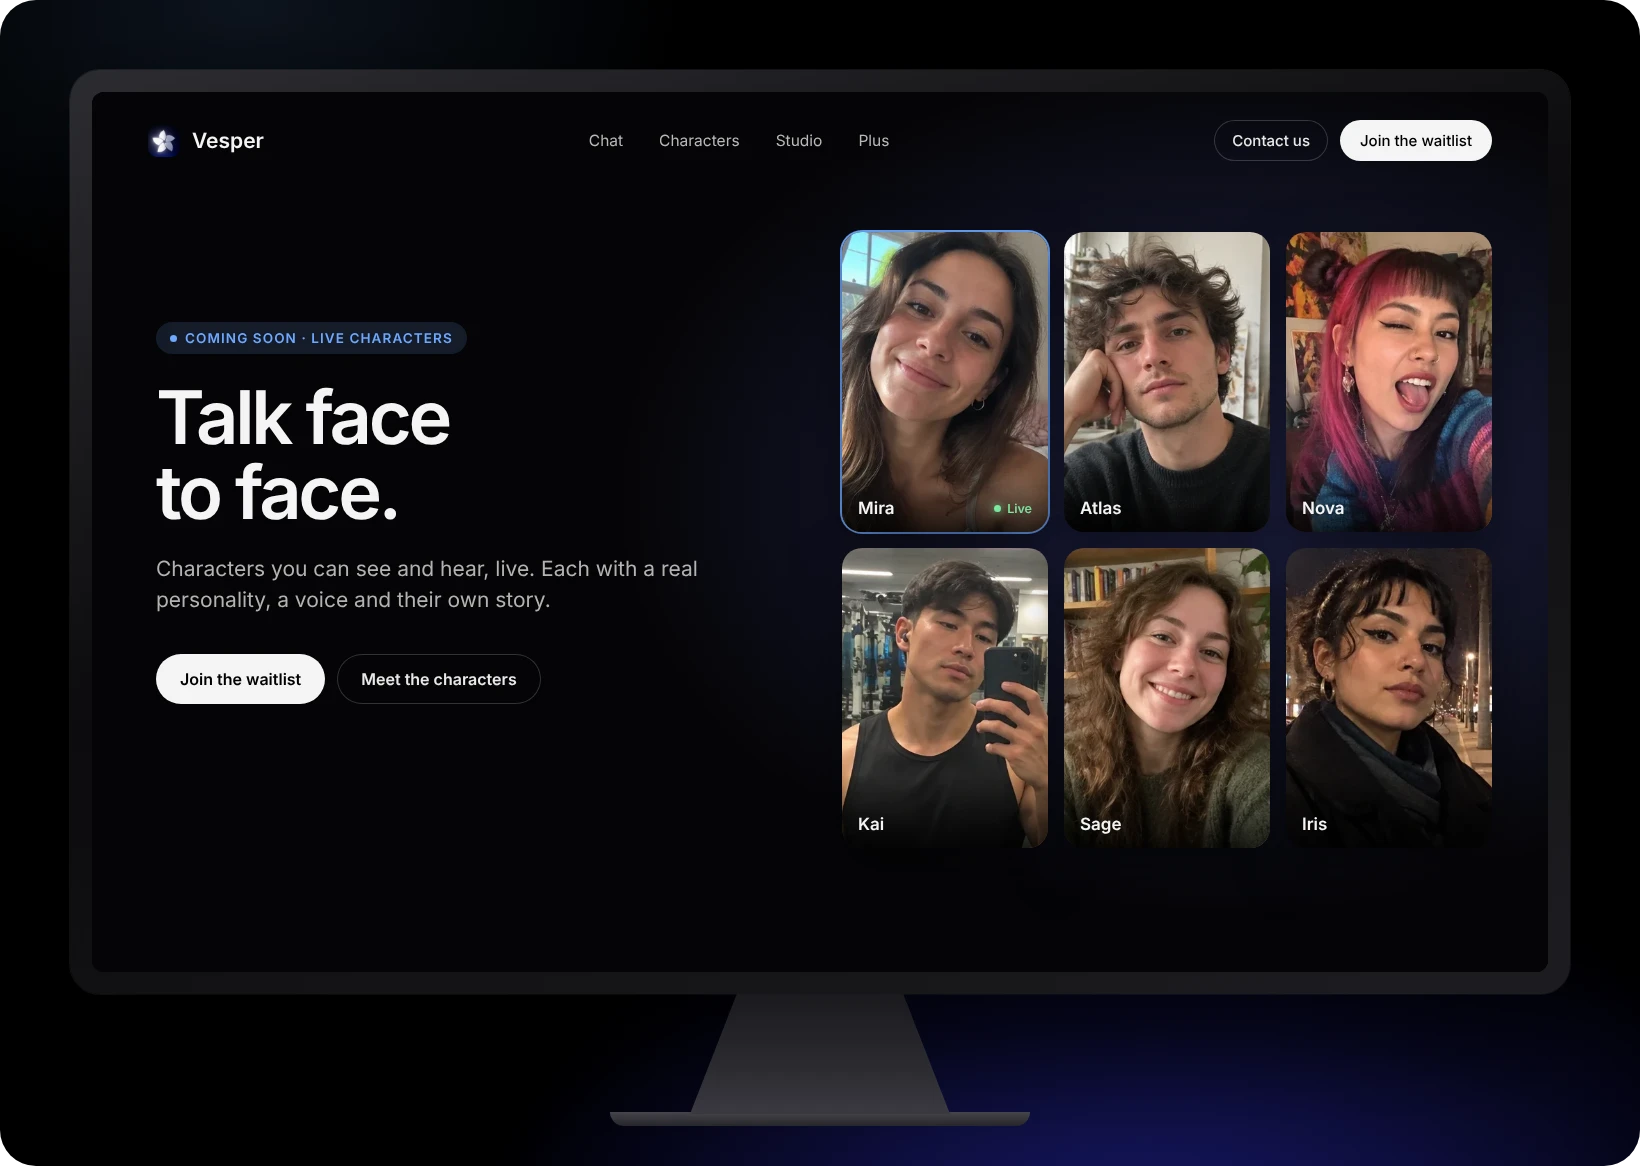
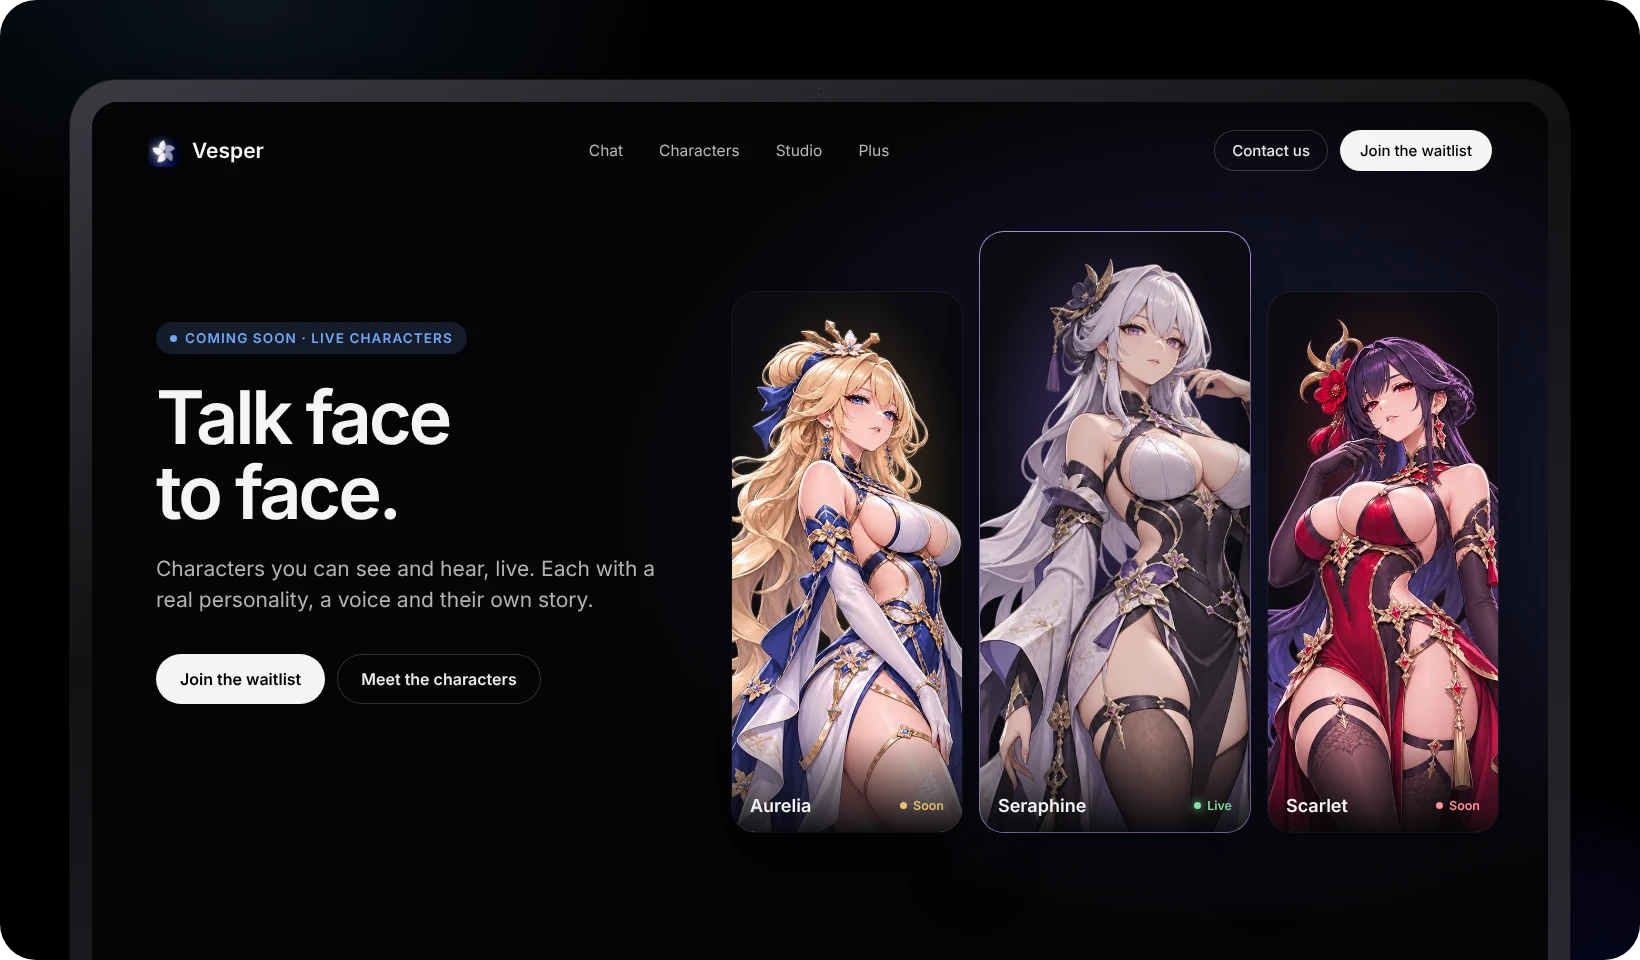
README art: tablets cropped at the bottom, anime trio for Live Characters, waitlist confetti
Claude-Session: https://claude.ai/code/session_01Pqes7qMJVCgUAH6HtcUGzX

diff --git a/docs/art/make-art.js b/docs/art/make-art.js
@@ -252,13 +252,10 @@ async function compose(browser, base) {
     </div></div>`, 1900), 1900);
 
   // Coming soon landing pages, each on an Apple style display
-  const mac = inner => `<div style="position:relative;padding:70px 0 40px;overflow:hidden"><div class="glow"></div>
-    <div style="position:relative;width:1500px;margin:0 auto">
-      <div style="padding:22px;border-radius:30px;background:linear-gradient(160deg,#2c2c31,#0b0b0d 45%,#1d1d21);box-shadow:0 50px 120px rgba(0,0,0,.7),0 0 0 1px rgba(255,255,255,.09)">
-        <div style="position:relative;width:1456px;height:880px;border-radius:12px;overflow:hidden;background:#000">${inner}</div></div>
-      <div style="width:260px;height:120px;margin:0 auto;background:linear-gradient(180deg,#1a1a1e,#2b2b30 60%,#3a3a40);clip-path:polygon(18% 0,82% 0,100% 100%,0 100%)"></div>
-      <div style="width:420px;height:14px;margin:-2px auto 0;border-radius:0 0 14px 14px;background:linear-gradient(180deg,#45454b,#26262a)"></div>
-    </div></div>`;
+  const mac = inner => `<div style="position:relative;height:960px;padding-top:80px;overflow:hidden"><div class="glow"></div>
+    <div style="position:relative;width:1500px;margin:0 auto;padding:22px;border-radius:46px;background:linear-gradient(160deg,#3a3a40,#111114 40%,#2a2a30);box-shadow:0 40px 100px rgba(0,0,0,.7),0 0 0 1px rgba(255,255,255,.08)">
+      <i style="position:absolute;top:8px;left:50%;width:7px;height:7px;margin-left:-3px;border-radius:50%;background:#1d1d22;box-shadow:inset 0 0 0 1.5px #2e2e35"></i>
+      <div style="position:relative;width:1456px;height:880px;border-radius:26px;overflow:hidden;background:#000">${inner}</div></div></div>`;
   const chk = '<svg width="18" height="18" viewBox="0 0 24 24" fill="none" stroke="#6ea8ff" stroke-width="2.4" stroke-linecap="round" stroke-linejoin="round"><path d="M20 6 9 17l-5-5"/></svg>';
   const nav = `<div style="position:absolute;left:0;right:0;top:0;z-index:3;display:flex;align-items:center;justify-content:space-between;padding:28px 56px">
       <div style="display:flex;align-items:center;gap:12px;font-size:21px;font-weight:600"><img src="/icons/chrome/icon-192.png" style="width:32px;height:32px;border-radius:9px">Vesper</div>
@@ -280,21 +277,28 @@ async function compose(browser, base) {
   await render("studio-video.webp", artPage(studio("/docs/art/studio/video.webp", "Coming soon · Video Studio", "Direct videos<br>with words.",
     "Ads, reels and stories with real camera moves. Describe the shot and get the clip, ready to post.",
     "Slow push in on a woman in the rain, neon street, night", ["10 sec", "9:16", "Handheld", "Sound on"]), 1640), 1640);
-  const people = [["mira", "Mira"], ["atlas", "Atlas"], ["nova", "Nova"], ["kai", "Kai"], ["sage", "Sage"], ["iris", "Iris"]];
-  await render("studio-live.webp", artPage(mac(`<div style="position:absolute;inset:0;background:radial-gradient(60% 70% at 78% 45%,rgba(110,120,255,.28),transparent 70%),#050507"></div>${nav}
-      <div style="position:absolute;left:64px;top:230px;z-index:2;width:560px">${chip("Coming soon · Live Characters")}${h1("Talk face<br>to face.")}${sub("Characters you can see and hear, live. Each with a real personality, a voice and their own story.")}
+  const trio = [["aurelia", "Aurelia", "#f0c26b", "rgba(255,190,90,.30)"], ["seraphine", "Seraphine", "#b89cff", "rgba(150,110,255,.40)"], ["scarlet", "Scarlet", "#ff8f8f", "rgba(255,80,110,.32)"]];
+  await render("studio-live.webp", artPage(mac(`<div style="position:absolute;inset:0;background:radial-gradient(60% 70% at 78% 45%,rgba(110,120,255,.26),transparent 70%),#050507"></div>${nav}
+      <div style="position:absolute;left:64px;top:220px;z-index:2;width:540px">${chip("Coming soon · Live Characters")}${h1("Talk face<br>to face.")}${sub("Characters you can see and hear, live. Each with a real personality, a voice and their own story.")}
         <div style="display:flex;gap:12px;margin-top:38px;font-size:16px;font-weight:600"><span style="padding:15px 24px;border-radius:999px;background:#f5f5f4;color:#000">Join the waitlist</span><span style="padding:15px 24px;border-radius:999px;color:#e9e9e7;box-shadow:inset 0 0 0 1px rgba(255,255,255,.18)">Meet the characters</span></div></div>
-      <div style="position:absolute;right:56px;top:140px;display:grid;grid-template-columns:repeat(3,206px);gap:16px">
-      ${people.map(([id, n], i) => `<div style="position:relative;border-radius:20px;overflow:hidden;height:300px;box-shadow:0 20px 50px rgba(0,0,0,.5)${i === 0 ? ",0 0 0 2px #6ea8ff" : ""}"><img src="/chars/${id}.webp" style="width:100%;height:100%;object-fit:cover">
-        <div style="position:absolute;inset:auto 0 0 0;padding:40px 16px 14px;background:linear-gradient(transparent,rgba(0,0,0,.8));display:flex;align-items:center;gap:8px;font-size:17px;font-weight:600">${n}
-        ${i === 0 ? '<span style="margin-left:auto;display:inline-flex;align-items:center;gap:6px;font-size:12.5px;color:#7ee8a0"><i style="width:7px;height:7px;border-radius:50%;background:#7ee8a0;box-shadow:0 0 10px #7ee8a0"></i>Live</span>' : ""}</div></div>`).join("")}
+      <div style="position:absolute;right:50px;top:130px;display:flex;align-items:flex-end;gap:18px">
+      ${trio.map(([id, n, col, glow], i) => `<div style="position:relative;width:${i === 1 ? 270 : 230}px;height:${i === 1 ? 600 : 540}px;border-radius:24px;overflow:hidden;background:radial-gradient(70% 50% at 50% 35%,${glow},transparent 75%),#0b0b10;box-shadow:0 30px 70px rgba(0,0,0,.6),0 0 0 1px ${i === 1 ? col : "rgba(255,255,255,.08)"}">
+        <img src="/docs/art/characters/${id}-full.webp" style="position:absolute;left:50%;top:26px;height:${i === 1 ? 980 : 880}px;transform:translateX(-50%)">
+        <div style="position:absolute;inset:auto 0 0 0;padding:60px 18px 16px;background:linear-gradient(transparent,rgba(5,5,8,.92));display:flex;align-items:center;gap:8px;font-size:18px;font-weight:600">${n}
+        <span style="margin-left:auto;display:inline-flex;align-items:center;gap:6px;font-size:12.5px;color:${i === 1 ? "#7ee8a0" : col}"><i style="width:7px;height:7px;border-radius:50%;background:${i === 1 ? "#7ee8a0" : col};${i === 1 ? "box-shadow:0 0 10px #7ee8a0" : ""}"></i>${i === 1 ? "Live" : "Soon"}</span></div></div>`).join("")}
       </div>`), 1640), 1640);
+  // a frozen confetti burst: seeded so every render matches
+  const confetti = (x0, y0) => { let r = 7; const rnd = () => (r = (r * 16807) % 2147483647) / 2147483647;
+    const cols = ["#6ea8ff", "#f0c26b", "#ffffff", "#b89cff", "#7ee8a0", "#ffd9a0"];
+    return Array.from({ length: 90 }, () => { const a = Math.PI * 2 * rnd(), d = 200 + rnd() * 520, x = x0 + Math.cos(a) * d * 1.35, y = y0 + Math.sin(a) * d * .9 + rnd() * 40;
+      const w = 5 + rnd() * 6, h = rnd() < .3 ? w : 10 + rnd() * 10, o = Math.max(.45, 1.1 - d / 800);
+      return `<i style="position:absolute;left:${x.toFixed(0)}px;top:${y.toFixed(0)}px;width:${w.toFixed(1)}px;height:${h.toFixed(1)}px;border-radius:${h === w ? "50%" : "2px"};background:${cols[Math.floor(rnd() * cols.length)]};opacity:${o.toFixed(2)};transform:rotate(${(rnd() * 360).toFixed(0)}deg);box-shadow:0 0 8px rgba(255,255,255,.15)"></i>`; }).join(""); };
   const list = items => items.map(t => `<div style="display:flex;align-items:center;gap:12px;font-size:16.5px;color:#dcdcd9;padding:7px 0">${chk}${t}</div>`).join("");
   await render("studio-plus.webp", artPage(mac(`<div style="position:absolute;inset:0;background:radial-gradient(50% 60% at 50% 0%,rgba(110,168,255,.22),transparent 70%),radial-gradient(40% 40% at 80% 100%,rgba(240,194,107,.10),transparent 70%),#050507"></div>${nav}
-      <div style="position:absolute;left:0;right:0;top:130px;text-align:center">${chip("Coming soon · Vesper Plus")}
+      <div style="position:absolute;left:0;right:0;top:118px;text-align:center">${chip("Coming soon · Vesper Plus")}
         <div style="font-size:70px;font-weight:600;letter-spacing:-.045em;background:linear-gradient(180deg,#ffffff,#9fb8e6);-webkit-background-clip:text;background-clip:text;color:transparent">More power, same privacy.</div>
         <div style="font-size:20px;color:#a9a9a6;margin-top:14px">Everything in Vesper stays free. Plus adds the studios and the extras.</div></div>
-      <div style="position:absolute;left:0;right:0;top:390px;display:flex;justify-content:center;gap:24px">
+      ${confetti(778, 560)}<div style="position:absolute;left:0;right:0;top:330px;display:flex;justify-content:center;gap:24px">
         <div style="width:400px;padding:30px 32px;border-radius:26px;background:rgba(18,18,22,.9);box-shadow:0 0 0 1px rgba(255,255,255,.09)">
           <div style="font-size:19px;font-weight:600">Free</div><div style="font-size:44px;font-weight:600;letter-spacing:-.03em;margin:8px 0 2px">Forever</div><div style="font-size:15px;color:#8f8f8c;margin-bottom:18px">What you have today</div>
           ${list(["Dozens of free AI models", "Characters and memory", "Models on your own PC", "No account, chats on your device"])}</div>
@@ -302,7 +306,7 @@ async function compose(browser, base) {
           <span style="position:absolute;top:28px;right:30px;font-size:12.5px;font-weight:600;letter-spacing:.08em;text-transform:uppercase;color:#000;background:#f0c26b;padding:6px 12px;border-radius:999px">Most loved</span>
           <div style="font-size:19px;font-weight:600">Plus</div><div style="font-size:44px;font-weight:600;letter-spacing:-.03em;margin:8px 0 2px">At launch</div><div style="font-size:15px;color:#8f8f8c;margin-bottom:18px">Join the waitlist for early access</div>
           ${list(["Image Studio and Video Studio credits", "Live Characters with voice", "Premium characters", "Sync across your devices", "Priority help from the team"])}
-          <div style="margin-top:22px;text-align:center;font-size:16px;font-weight:600;padding:15px;border-radius:14px;background:#f5f5f4;color:#000">Join the waitlist</div></div>
+          <div style="margin-top:22px;display:flex;align-items:center;justify-content:center;gap:10px;font-size:16px;font-weight:600;padding:15px;border-radius:14px;background:linear-gradient(135deg,#f5f5f4,#f0c26b);color:#000"><svg width="18" height="18" viewBox="0 0 24 24" fill="none" stroke="#000" stroke-width="2.6" stroke-linecap="round" stroke-linejoin="round"><path d="M20 6 9 17l-5-5"/></svg>You're on the list</div></div>
         <div style="width:300px;padding:30px 32px;border-radius:26px;background:rgba(18,18,22,.9);box-shadow:0 0 0 1px rgba(255,255,255,.09);display:flex;flex-direction:column">
           <div style="font-size:19px;font-weight:600">Business</div><div style="font-size:16.5px;color:#b4b4b1;line-height:1.55;margin:14px 0 auto">Teams, agencies and custom characters for your brand. Let's talk.</div>
           <div style="margin-top:22px;text-align:center;font-size:16px;font-weight:600;padding:15px;border-radius:14px;color:#f5f5f4;box-shadow:inset 0 0 0 1px rgba(255,255,255,.2)">Contact us</div></div>

diff --git a/README.md b/README.md
@@ -62,7 +62,7 @@ These are on the way. They are not in the app yet.
 
 **Live Characters.** Characters you can see and hear, live, face to face.
 
-<p align="center"><img src="docs/studio-live.webp" alt="Live Characters, coming soon. Talk face to face." width="100%"></p>
+<p align="center"><img src="docs/studio-live.webp" alt="Live Characters, coming soon. Talk face to face with Seraphine, Aurelia and Scarlet." width="100%"></p>
 
 **Vesper Plus.** Everything in Vesper stays free. Plus adds the studios and the extras.
 
